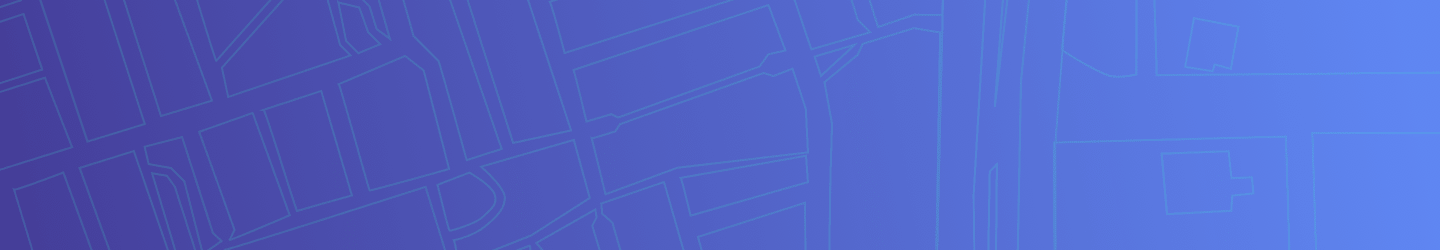
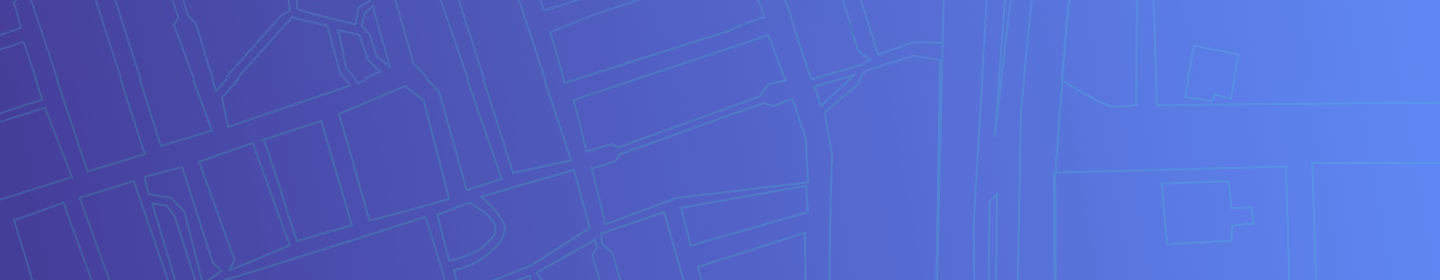
Fixed sizing of form

diff --git a/styles/index.css b/styles/index.css
@@ -2,12 +2,21 @@
 body {
     margin: 0;
     font-family: sans-serif;
+    overflow: hidden;
 }
 
 /* Header */
 header {
+     display: flex;
+     flex-direction: column;
+     align-items: center;
+
     background-image: url("../images/pattern-bg.png");
-    height: 250px;
+    background-size: 100vw 100%;
+    background-repeat: no-repeat;
+    height: 35.2vh;
+    width: 100vw;
+    z-index: 10;
 }
 
 header form {
@@ -23,36 +32,74 @@ h1 {
 }
 
 /* Search bar */
+.ip-form{
+    display: flex;
+    justify-content: center;
+    width: 38.54vw;
+    height: 7.3vh;
+    padding: 0;
+    margin: 3.03vh 0 0 0;
+}
+
 input[type=text] {
-    width: 25em;
-    padding: 12px 12px;
-    border-radius: 0.8em;
-    font-size: 1em;
+    width: 89.54%;
+    height: 100%;
+
+
+    padding: 0 0 0 4.5%;
+    border: 0;
+
+
+    outline: none; 
+    border-radius: 0.8em 0 0 0.8em;
+    font-size: 1.155em;
     transition: 1s;
   }
 
 /* Submit button arrow */
 .submit-btn {
+     width: 10.45%;
+     height: 100%;
+
     background-color: black;
-    padding: 15.8px;
+    background-size: 1px 1px;
+    border: 0;
+    border-radius: 0px 15px 15px 0px;
+    transition: ease-in-out .1s;
 }
 
-input.submit-btn {
-    margin-left: -18px;
-    margin-bottom: -17.5px;
-    border-top-right-radius: 15px;
-    border-bottom-right-radius: 15px;
+.submit-btn:hover{
+    cursor: pointer;
+    background-color: rgb(61, 61, 61);
 }
+
+
+.light-switch{
+    display: none;
+}
+
+
+main{
+    display: flex;
+    flex-direction: column;
+    align-items: center;
+}
+
 
 /* Info Section */
 .info-section {
     display: flex; 
     justify-content: center;
-    width: 80%;
-    height: 120px;
+
+    width: auto;
+    height: 20.3vh;
+
+
     margin: auto;
-    border-radius: 10px;
-    margin-top: -60px;
+    border-radius: 15px;
+    margin-top: -10.2vh;
+    padding: 0 0 0 0;
+
     background-color: white;
     z-index: 2;
     position: relative;
@@ -60,25 +107,54 @@ input.submit-btn {
 }
 
 .info-section > div {
-    width: 270px;
+    width: 17.9vw;
     padding: 10px 0 0 10px;
     margin: 5px;
+    height: 8vh;
+}
+
+.info-section > div::after {
+    content: '';
+    position: absolute;
+    top: 27%;
+    margin-left: -15px;
+
+    width: 1px; 
+    height: 45%;
+    background: rgb(198, 187, 187);
+}
+
+.ip-title::after {
+content: none !important;
 }
 
 .ip-title > p, .location-title > p, .timezone-title > p, .isp-title > p {
     text-transform: uppercase;
     font-weight: 800;
     opacity: 0.5;
-    font-size: 0.7rem;
+    font-size: .75rem;
     letter-spacing: 1px;
-    margin-bottom: -10px;
+    margin-bottom: 15px;
+    margin-top: 20px;
+    margin-left: 16px;
 }
 
 .ip, .location, .timez, .isp {
     font-size: 1.5em;
     font-weight: bold;
-    padding-top: -5px;
+    margin-left: 16px;
 }
+
+.ip p, .location p, .timez p, .isp p {
+margin: 0;
+width: 70%;
+}
+
+
+
+
+
+
 
 /* Zoom in and Zoom out controls */
 .leaflet-container .leaflet-control-zoom-in {
@@ -93,7 +169,7 @@ input.submit-btn {
 #map {
     height: 790px;
     width: 100%; 
-    margin-top: -60px;
+    margin-top: -10vh;
     z-index: 1;
 }
 
@@ -103,110 +179,78 @@ input.submit-btn {
 
 /* Extra large screens, TV */
 @media only screen and (min-width: 1201px) {
-    .info-section {
-        width: 80%;
-        height: 120px;
-        margin-top: -60px;
-        transition: 1s;
-    }
+ 
 }
 
 /* Desktops, large screens */
 @media only screen and (min-width: 1025px) and (max-width: 1200px) {
     input[type=text] {
-        width: 22em;
-        transition: 1s;
+    
+
       }
     .info-section {
-        width: 90%;
-        transition: 1s;
-        height: 100px;
-        font-size: 0.9rem;
+     
     }
     .ip-title > p, .location-title > p, .timezone-title > p, .isp-title > p {
-        font-size: 0.65rem;
+       
     }
 }
 
 /* Small screens, laptops */
 @media only screen and (min-width: 769px) and (max-width: 1024px) {
     input[type=text] {
-        width: 20em;
-        padding: 11px;
-        font-size: 1em;
-        transition: 1s;
+     
       }
     .submit-btn {
-        padding: 15px;
-        transition: 1s;
+     
     }
     
     input.submit-btn {
-        margin-left: -18px;
-        margin-bottom: -17px;
+      
     }
     .info-section {
-        width: 90%;
-        transition: 1s;
-        padding: 0;
-        height: 90px;
-        font-size: 0.8rem;
+     
     }
     .ip-title > p, .location-title > p, .timezone-title > p, .isp-title > p {
-        font-size: 0.6rem;
+        
     }
 }
 
 /* iPads, Tablets */
 @media only screen and (min-width: 481px) and (max-width: 768px) {
     input[type=text] {
-        width: 20em;
-        padding: 10px;
-        font-size: 0.9em;
-        transition: 1s;
+        
       }
     .submit-btn {
-        padding: 13px;
-        transition: 1s;
+       
     }
     
     input.submit-btn {
-        margin-left: -18px;
-        margin-bottom: -15px;
+      
     }
     .info-section {
-        width: 90%;
-        transition: 1s;
-        padding: 0;
-        height: 80px;
-        font-size: 0.7rem;
+   
     }
     .ip-title > p, .location-title > p, .timezone-title > p, .isp-title > p {
-        font-size: 0.5rem;
+    
     }
   }
 
 /* Mobile devices */
 @media only screen and (min-width: 320px) and (max-width: 480px) {
     input[type=text] {
-        width: 18em;
-        padding: 10px;
-        font-size: 0.8em;
-        transition: 1s;
+    
       }
     .info-section {
-        width: 90%;
-        transition: 1s;
-        max-height: 70px;
-        font-size: 0.5rem;
+      
     }
     .ip-title > p, .location-title > p, .timezone-title > p, .isp-title > p {
-        font-size: 0.5rem;
+     
     }
     .leaflet-container .leaflet-control-zoom-in {
-        display: block;
+     
     }
     .leaflet-container .leaflet-control-zoom-out {
-        display: block;
+       
     }
   }

diff --git a/index.html b/index.html
@@ -27,8 +27,8 @@
     <header>
       <h1>IP Address Tracker</h1>
       <form class="ip-form" action="#">
-        <input class="ip-input" type="text" placeholder="Search for any IP address or domain" />
-        <input class="submit-btn" type="image" src="images/icon-arrow.svg" alt="Submit" />
+        <input class="ip-input" type="text" placeholder="Search for any IP address or domain" value="192.212.174.101">
+        <button class="submit-btn">    <img src="../images/icon-arrow.svg" alt="submit arrow"> </button>
       </form>
 
       <button class="light-switch">Light Mode</button>
@@ -38,12 +38,12 @@
       <div class="info-section">
         <div class="ip-title">
           <p>IP Address</p>
-          <div class="ip"><p>192...</p></div> <!-- Hardcoded placeholder text for visual -->
+          <div class="ip"><p>192.212.174.101</p></div> <!-- Hardcoded placeholder text for visual -->
         </div><!-- edited Javascript-->
 
         <div class="location-title">
           <p>Location</p>
-          <div class="location"><p>Brooklyn, NY</p></div>
+          <div class="location"><p>Brooklyn, NY 10001</p></div>
         </div><!-- edited Javascript-->
         
         <div class="timezone-title">
